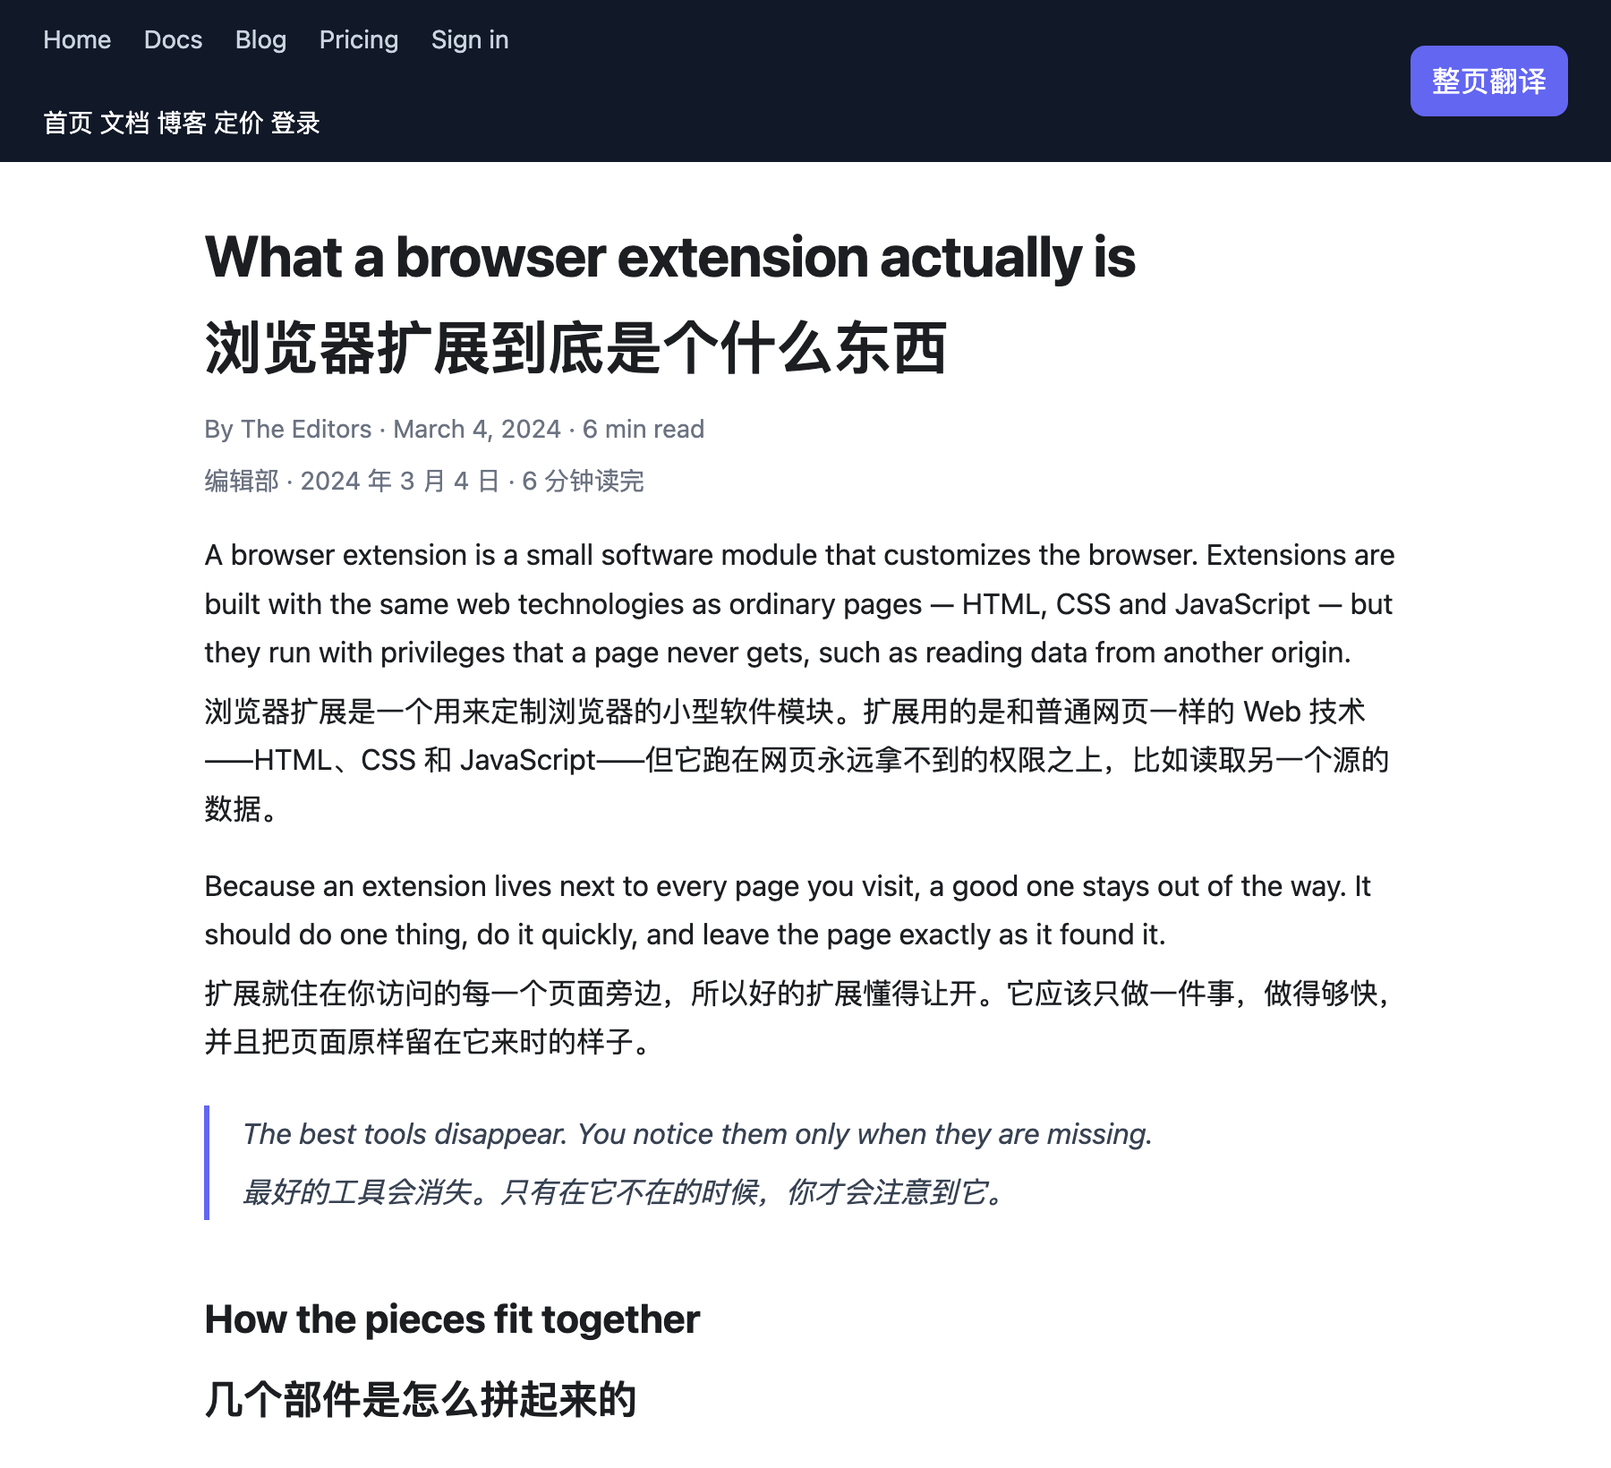
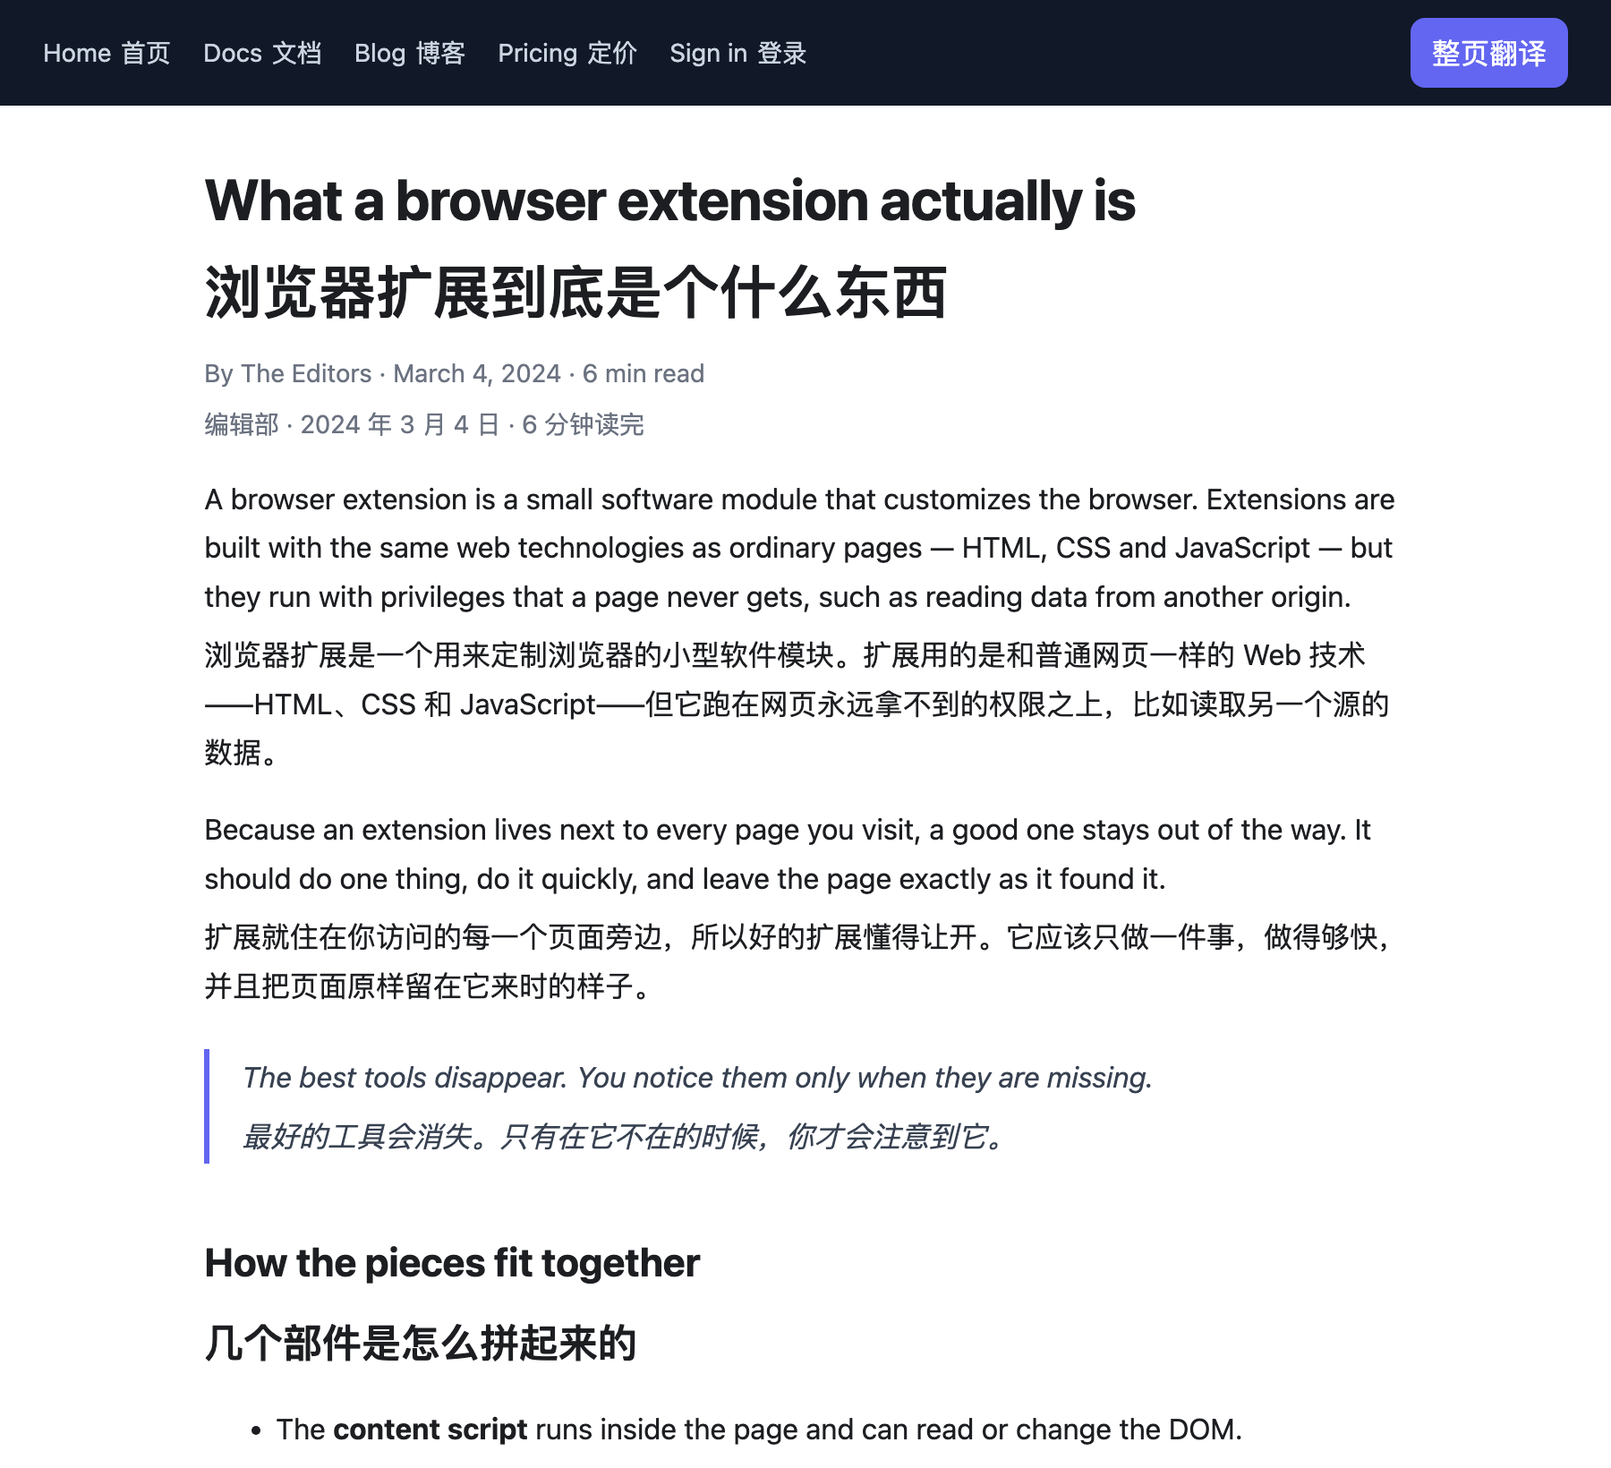
feat(page): 短文字的译文不再另起一行，译文跟着原文保留链接
按钮、标签页、导航项这些地方的文字本来就短，为两个字的译文换一行，会
把一条紧凑的工具栏撑成两倍高，还常常挤破固定高度的容器。改成接在原文
后面：「Home 首页」。判据是「一段不超过 30 个字符、且不是两句话」；
标题（h1–h6）除外，字号大，接在后面读起来是一长串。行内那套样式特意
不写 white-space 和 text-decoration——原文若是 nowrap（按钮几乎都是）
译文得跟着不换行，链接的下划线也该自然地延到译文上。

一段文字整个来自同一个 <a> 时，译文插进那个 <a> 里面，于是译文和原文
一样能点，颜色、下划线、hover 全是链接自己的（inherit 白拿）。

导航条随之要拆开翻。<nav><a>Home</a><a>Docs</a>…</nav> 原先是一整段，
「Home Docs Blog Pricing Sign in」被当成一句话译成不知所云的一串，
译文还只能堆在整条导航的末尾；不拆的话行内化之后更难看。现在「块级元素
里除了几个 <a>/<button> 再没有别的文字」的地方逐项翻，译文各回各的链接。

顺带修一类早就有的漏翻：块级元素旁边掉队的行内元素。

  <div><button>Randomized Controlled Trial</button><div class="dropdown">…</div></div>

论文站的关键词条、各种下拉菜单的触发器都长这样。外层 div 有块级子元素
（那个收起来的菜单），walk 便只往块级里钻，按钮不是块级、进去就掉头，
它的文字从头到尾没人收；菜单自己是隐藏的也不会被收，整个 li 一个字都
没翻。现在把这些掉队的行内元素单独收进来，但只在「块级子元素之外没有
散落文字」时才收——否则会把一句被 <b>、<a> 断成几截的话拆成碎片。

demo/page.html 加了对应的用例（关键词条、带散文本的混排各一），假译文
对照表里导航条改成逐词条目。docs/screenshots/page.png 跟着重拍。
demo 的 ?auto=roundtrip 仍然 OK：关掉翻译后页面一字节不差地还原。

Claude-Session: https://claude.ai/code/session_01NPJCGGAhjHjzL5WJR3c6hs

Changed region(s): [[0.0, 0.0, 1.0, 0.9951]]

diff --git a/src/content/page-translate.js b/src/content/page-translate.js
@@ -10,6 +10,11 @@
  * 行高与对齐方式，看上去就是同一段文字换了一行；页面原有的排版（列表编号、
  * 表格结构、flex/grid 的子项数量）也不会因为多出一个兄弟节点而错乱。
  *
+ * 译文有两种落法：正文另起一行，按钮、标签、导航项这类一行就放得下的短文字则直接
+ * 接在原文后面——短标签本来就靠紧凑取胜，为两个字换一行会把整条工具栏撑散。
+ * 整段文字都来自同一个链接时，译文插进那个 <a> 里，于是译文和原文一样能点、
+ * 一样带着链接的颜色与下划线。
+ *
  * 只在主框架里工作：整页翻译由工具栏按钮或快捷键显式触发，消息只发给 frameId 0。
  */
 (() => {
@@ -49,6 +54,7 @@
   const MAX_FAILS = 3;           // 连续失败几批就停手，不再骚扰接口
   const MAX_UNITS = 1000;        // 一次扫描最多收多少段，防止超大页面失控
   const RESCAN_DELAY = 700;      // 页面新增内容后等多久再扫（无限滚动会连着变）
+  const INLINE_MAX_CHARS = 30;   // 短到这个长度的一段，译文接在原文后面而不另起一行
 
   /* ------------------------------------------------------------ 状态 */
 
@@ -178,33 +184,89 @@
   }
 
   /**
-   * 深度优先找「最内层的块级元素」：还有块级子元素就继续往下走，
-   * 走到头的那个块级元素就是一段。夹在块级子元素之间的散装文本会被漏掉，
-   * 这种写法很少见，为此把整棵树切碎并不划算。
+   * 一排并列的链接或按钮：导航条、页脚链接、标签栏、面包屑都长这样——
+   * 块级元素里除了几个 <a>/<button>，再没有别的文字（中间的「·」「|」不算）。
+   *
+   * 这种地方要一个个单独翻。整条一起送去翻，「Home Docs Blog Pricing」会被
+   * 当成一句话译成不知所云的一串，译文也只能堆在整条导航的末尾；拆开之后
+   * 每个词各翻各的，译文还能回到各自的链接里去（见 insert）。
    */
-  function walk(el, out) {
-    if (out.length >= MAX_UNITS || skipped(el)) return;
+  const CHIP_TAGS = new Set(['A', 'BUTTON']);
 
-    let hasBlockChild = false;
-    for (const kid of el.children) {
-      if (isBlock(kid) && !skipped(kid)) {
-        hasBlockChild = true;
-        break;
-      }
+  function chips(el) {
+    const kids = [...el.children];
+    if (kids.length < 2) return null;
+    for (const kid of kids) if (!CHIP_TAGS.has(kid.tagName) || skipped(kid)) return null;
+    // 链接之外还有正经文字，就说明这是一句话而不是一排链接，不能拆。
+    for (const node of el.childNodes) {
+      if (node.nodeType === 3 && /[\p{L}\p{N}]/u.test(node.data)) return null;
     }
-    if (hasBlockChild) {
-      for (const kid of el.children) walk(kid, out);
-      return;
-    }
-    if (!isBlock(el) || handled.has(el)) return;
+    return kids;
+  }
 
+  /** 收下一段：够格翻译、看得见，就记进待翻列表。 */
+  function take(el, out) {
+    if (handled.has(el)) return;
     const text = unitText(el);
     if (!translatable(text, hanIsZh(langOf(el)))) return;
     const rects = el.getClientRects();
     if (!rects.length) return; // 没有渲染框（折叠菜单、隐藏标签页……）
 
     handled.add(el);
-    out.push({ el, text, top: rects[0].top, script: scriptOf(text) });
+    out.push({ el, text, top: rects[0].top, script: scriptOf(text), inline: isInline(el, text) });
+  }
+
+  function hasBlock(el) {
+    for (const kid of el.children) if (isBlock(kid) && !skipped(kid)) return true;
+    return false;
+  }
+
+  /**
+   * 块级子元素之外掉队的行内元素。下拉菜单、折叠面板常写成这样：
+   *
+   *   <div><button>Randomized Controlled Trial</button><div class="dropdown">…</div></div>
+   *
+   * 按钮的文字不在任何一个块级子元素里，只顺着块级往下走就把它整段漏掉了。
+   *
+   * 只在「块级子元素之外没有散落的文字」时才捡：一旦有散文本，说明这是一句话被
+   * <b>、<a> 断成了几截，单独翻其中一截只会得到没头没尾的碎片。
+   */
+  function orphans(el) {
+    const out = [];
+    for (const node of el.childNodes) {
+      if (node.nodeType === 3) {
+        if (/[\p{L}\p{N}]/u.test(node.data)) return []; // 有散文本，整段都别拆
+        continue;
+      }
+      if (node.nodeType !== 1 || isBlock(node) || skipped(node)) continue;
+      // 自己还套着块级元素的，上面那轮 walk 已经进去过了
+      if (!hasBlock(node)) out.push(node);
+    }
+    return out;
+  }
+
+  /**
+   * 深度优先找「最内层的块级元素」：还有块级子元素就继续往下走，
+   * 走到头的那个块级元素就是一段。夹在块级子元素之间的散装文本会被漏掉，
+   * 这种写法很少见，为此把整棵树切碎并不划算；掉队的行内元素则由 orphans 捡回来。
+   */
+  function walk(el, out) {
+    if (out.length >= MAX_UNITS || skipped(el)) return;
+
+    if (hasBlock(el)) {
+      for (const kid of el.children) walk(kid, out);
+      for (const kid of orphans(el)) take(kid, out);
+      return;
+    }
+    if (!isBlock(el) || handled.has(el)) return;
+
+    // 一排链接逐个收；导航条随时会加新项，所以容器本身不记进 handled。
+    const parts = chips(el);
+    if (parts) {
+      for (const kid of parts) take(kid, out);
+      return;
+    }
+    take(el, out);
   }
 
   /** 先翻眼前看得见的，再往下、最后才回头补视口上方的——读者的视线在哪就先给哪。 */
@@ -220,6 +282,36 @@
   }
 
   /* -------------------------------------------------------- 译文插入 */
+
+  /**
+   * 一段话里有第二句（句号后面还有字），再短也是正文，老老实实另起一行。
+   */
+  const MULTI_SENTENCE = /[.!?。！？…]["'\u2019\u201d\)）]*[\s\u3000]\S/;
+
+  /**
+   * 这一段该不该把译文接在原文后面。
+   *
+   * 判据只有「短」：按钮、标签页、导航项、表头、徽标……这些地方的文字本来就短，
+   * 为两个字的译文换一行，会把一条紧凑的工具栏撑成两倍高，还常常挤破固定高度的容器。
+   * 标题除外——标题字号大，接在后面读起来是一长串，另起一行更清楚。
+   */
+  function isInline(el, text) {
+    if (text.length > INLINE_MAX_CHARS) return false;
+    if (MULTI_SENTENCE.test(text)) return false;
+    return !/^H[1-6]$/.test(el.tagName.toUpperCase());
+  }
+
+  /**
+   * 整段文字都来自同一个链接时，把那个 <a> 交出来：译文插进链接里面，
+   * 于是译文跟原文一样能点，颜色、下划线、hover 也都是链接自己的（inherit 白拿）。
+   * 一段里有好几个链接就算了——译文是一整句纯文本，没法再按片切回各自的链接。
+   */
+  function linkOf(el, text) {
+    if (el.tagName === 'A' && el.hasAttribute('href')) return el;
+    const links = el.querySelectorAll('a[href]');
+    if (links.length !== 1) return null;
+    return unitText(links[0]) === text ? links[0] : null;
+  }
 
   /**
    * 译文节点的样式。除了「另起一行」必需的那几条，其余一律 inherit：
@@ -253,14 +345,45 @@
     'user-select: text'
   ];
 
+  /**
+   * 接在原文后面时的样式。和 TR_BASE 的区别不只是 display：
+   * 不写 white-space —— 原文若是 nowrap（按钮几乎都是），译文得跟着不换行，
+   * 否则一个两行高的按钮比另起一行还难看；
+   * 也不写 text-decoration —— 让链接的下划线自然地延到译文上。
+   */
+  const TR_INLINE = [
+    'display: inline',
+    'margin: 0 0 0 .38em',   // 和原文之间留一个字缝，不然两种文字会黏在一起
+    'padding: 0',
+    'float: none',
+    'position: static',
+    'width: auto',
+    'max-width: none',
+    'max-height: none',
+    'height: auto',
+    'overflow: visible',
+    'text-overflow: clip',
+    'font: inherit',
+    'color: inherit',
+    'line-height: inherit',
+    'text-indent: 0',
+    'letter-spacing: normal',
+    'vertical-align: baseline',
+    'visibility: visible',
+    'opacity: 1',
+    'pointer-events: auto',
+    'user-select: text'
+  ];
+
   const TR_VARIANT = {
     plain: [],
     muted: ['opacity: .72'],
     dotted: ['text-decoration: underline dotted currentColor', 'text-underline-offset: 3px']
   };
 
-  function trStyle(kind) {
-    return [...TR_BASE, ...(TR_VARIANT[kind] || [])].map((d) => `${d} !important`).join(';');
+  function trStyle(kind, inline) {
+    const base = inline ? TR_INLINE : TR_BASE;
+    return [...base, ...(TR_VARIANT[kind] || [])].map((d) => `${d} !important`).join(';');
   }
 
   let styleKind = 'plain';
@@ -282,14 +405,18 @@
     el.setAttribute('style', (style ? style + ';' : '') + 'flex-wrap: wrap !important');
   }
 
-  function insert(el, text) {
+  function insert(unit, text) {
+    const { el, inline } = unit;
     if (!el.isConnected) return false;
-    ensureWrap(el);
+    // 有链接就插进链接里；否则插在段落末尾，另起一行时还要先给 flex 容器松绑。
+    const link = linkOf(el, unit.text);
+    const host = link?.isConnected ? link : el;
+    if (!inline && host === el) ensureWrap(el);
     const node = document.createElement(TR_TAG);
-    node.setAttribute('data-ld-tr', '');
-    node.style.cssText = trStyle(styleKind);
+    node.setAttribute('data-ld-tr', inline ? 'inline' : 'block');
+    node.style.cssText = trStyle(styleKind, inline);
     node.textContent = text;
-    el.appendChild(node);
+    host.appendChild(node);
     return true;
   }
 
@@ -351,7 +478,7 @@
     const list = res.data?.list || [];
     batch.forEach((unit, i) => {
       const text = list[i];
-      if (text && insert(unit.el, text)) stats.done++;
+      if (text && insert(unit, text)) stats.done++;
       else stats.failed++;
     });
     hud();
@@ -529,7 +656,9 @@
   chrome.storage?.onChanged?.addListener((changes, area) => {
     if (area !== 'sync' || !on || !changes.pageStyle) return;
     styleKind = changes.pageStyle.newValue || 'plain';
-    const css = trStyle(styleKind);
-    for (const node of document.querySelectorAll(`${TR_TAG}[data-ld-tr]`)) node.style.cssText = css;
+    const css = { inline: trStyle(styleKind, true), block: trStyle(styleKind, false) };
+    for (const node of document.querySelectorAll(`${TR_TAG}[data-ld-tr]`)) {
+      node.style.cssText = node.getAttribute('data-ld-tr') === 'inline' ? css.inline : css.block;
+    }
   });
 })();

diff --git a/demo/page.html b/demo/page.html
@@ -44,6 +44,9 @@
     .card p { margin: 0; font-size: 14px; color: #4b5563; }
     .grid { display: grid; grid-template-columns: 1fr 1fr; gap: 14px; margin: 18px 0; }
     .grid div { padding: 12px; background: #f9fafb; border-radius: 8px; font-size: 14px; }
+    .keywords-list { display: flex; flex-wrap: wrap; gap: 8px; list-style: none; margin: 18px 0; padding: 0; }
+    .keywords-list button { font: inherit; font-size: 14px; padding: 4px 10px; border: 1px solid #e5e7eb; border-radius: 999px; background: #f9fafb; cursor: pointer; }
+    .keywords-list .dropdown { display: none; }
     .nowrap { white-space: nowrap; overflow: hidden; text-overflow: ellipsis; max-width: 260px; background: #f9fafb; padding: 8px 10px; border-radius: 8px; }
     footer { border-top: 1px solid #e5e7eb; margin-top: 40px; padding-top: 16px; color: #6b7280; font-size: 13px; }
     .hidden { display: none; }
@@ -96,6 +99,27 @@
 
     <p class="nowrap">A single line that is clipped with an ellipsis when it grows too long.</p>
 
+    <!-- 掉队的行内元素：按钮的文字不属于任何块级子元素，旁边还挂着一个收起来的下拉菜单。
+         论文站的关键词条就长这样，只顺着块级往下走会把这几个词整段漏掉。 -->
+    <ul class="keywords-list">
+      <li>
+        <div class="keyword-actions">
+          <button class="trigger" aria-label="Toggle dropdown menu">Randomized Controlled Trial</button>
+          <div class="dropdown" aria-hidden="true"><a href="#">Search this keyword</a></div>
+        </div>
+      </li>
+      <li>
+        <div class="keyword-actions">
+          <button class="trigger" aria-label="Toggle dropdown menu">Systematic Review</button>
+          <div class="dropdown" aria-hidden="true"><a href="#">Search this keyword</a></div>
+        </div>
+      </li>
+    </ul>
+
+    <!-- 同样是「块级子元素旁边还有行内元素」，但这回行内元素是一句话里的一截：
+         散落的文字还在，就不该把 <b> 单独拆出去翻。 -->
+    <div class="mixed">Read the <b>fine print</b> before you install anything.<p>It is short, and it matters.</p></div>
+
     <h2>Permissions at a glance</h2>
     <table>
       <thead><tr><th>Permission</th><th>What it unlocks</th></tr></thead>
@@ -135,7 +159,12 @@
        对照表里没有的段落（?lazy=1 追加的那几段、临时改的文案）退回
        「译：+ 原文」，长度和原文相当，照样能看排版。 */
     const PHRASEBOOK = {
-      'Home Docs Blog Pricing Sign in': '首页 文档 博客 定价 登录',
+      // 导航条上的链接是一个一个单独翻的，译文各回各的 <a> 里
+      'Home': '首页',
+      'Docs': '文档',
+      'Blog': '博客',
+      'Pricing': '定价',
+      'Sign in': '登录',
       'What a browser extension actually is': '浏览器扩展到底是个什么东西',
       'By The Editors · March 4, 2024 · 6 min read': '编辑部 · 2024 年 3 月 4 日 · 6 分钟读完',
       'A browser extension is a small software module that customizes the browser. Extensions are built with the same web technologies as ordinary pages — HTML, CSS and JavaScript — but they run with privileges that a page never gets, such as reading data from another origin.':
@@ -166,6 +195,9 @@
         'flex 行是最经典的翻车点：随手插一个节点就能把排版挤坏。',
       'A single line that is clipped with an ellipsis when it grows too long.':
         '单独的一行，长到装不下的时候会被省略号截断。',
+      'Randomized Controlled Trial': '随机对照试验',
+      'Systematic Review': '系统综述',
+      'It is short, and it matters.': '它很短，但很重要。',
       'Permissions at a glance': '权限一览',
       'Permission': '权限',
       'What it unlocks': '它解锁了什么',

diff --git a/CHANGELOG.md b/CHANGELOG.md
@@ -3,6 +3,13 @@
 本文件记录 LightDict 轻词典的版本变更。
 格式参考 [Keep a Changelog](https://keepachangelog.com/zh-CN/1.1.0/)，版本号遵循 [语义化版本](https://semver.org/lang/zh-CN/)。
 
+## [未发布]
+
+- **整页翻译：按钮、标签、导航项这类短文字的译文不再另起一行**，直接接在原文后面（「Home 首页」）。短标签本来就靠紧凑取胜，为两个字换一行会把工具栏、标签栏撑成两倍高，还常挤破固定高度的容器。判据是「一段不超过 30 个字符、且不是两句话」；标题（h1–h6）除外，字号大，另起一行更清楚。
+- **译文跟着原文保留链接**：一段文字整个来自同一个 `<a>` 时，译文插进那个 `<a>` 里面，于是译文和原文一样能点，颜色、下划线、hover 也都是链接自己的。
+- **修好一类漏翻：块级元素旁边掉队的按钮和链接**。`<div><button>关键词</button><div class="dropdown">…</div></div>` 这种写法（论文站的关键词条、各种下拉菜单的触发器都长这样）里，按钮的文字不属于任何一个块级子元素，原先只顺着块级往下走就把它整段漏掉了。现在会把这些掉队的行内元素单独收进来——但只在「块级子元素之外没有散落文字」时才收，免得把一句被 `<b>`、`<a>` 断成几截的话拆开翻成碎片。
+- **一排并列的链接改成逐个翻译**：导航条、页脚链接、面包屑这种「块级元素里除了几个 `<a>`/`<button>` 再没有别的文字」的地方，原先整条一起送去翻，「Home Docs Blog Pricing」会被当成一句话译成不知所云的一串，译文还只能堆在整条导航的末尾；现在每项各翻各的，译文各回各的链接。
+
 ## [1.3.1] - 2026-08-28
 
 - **默认引擎改用微软翻译**：Google 的接口在国内网络时常连不上，微软翻译走 `bing.com` 的免注册通道，直连稳定、长句也更通顺。划词翻译、中译英、整页翻译三处的默认值一起改；已经在设置里选过引擎的用户不受影响。
